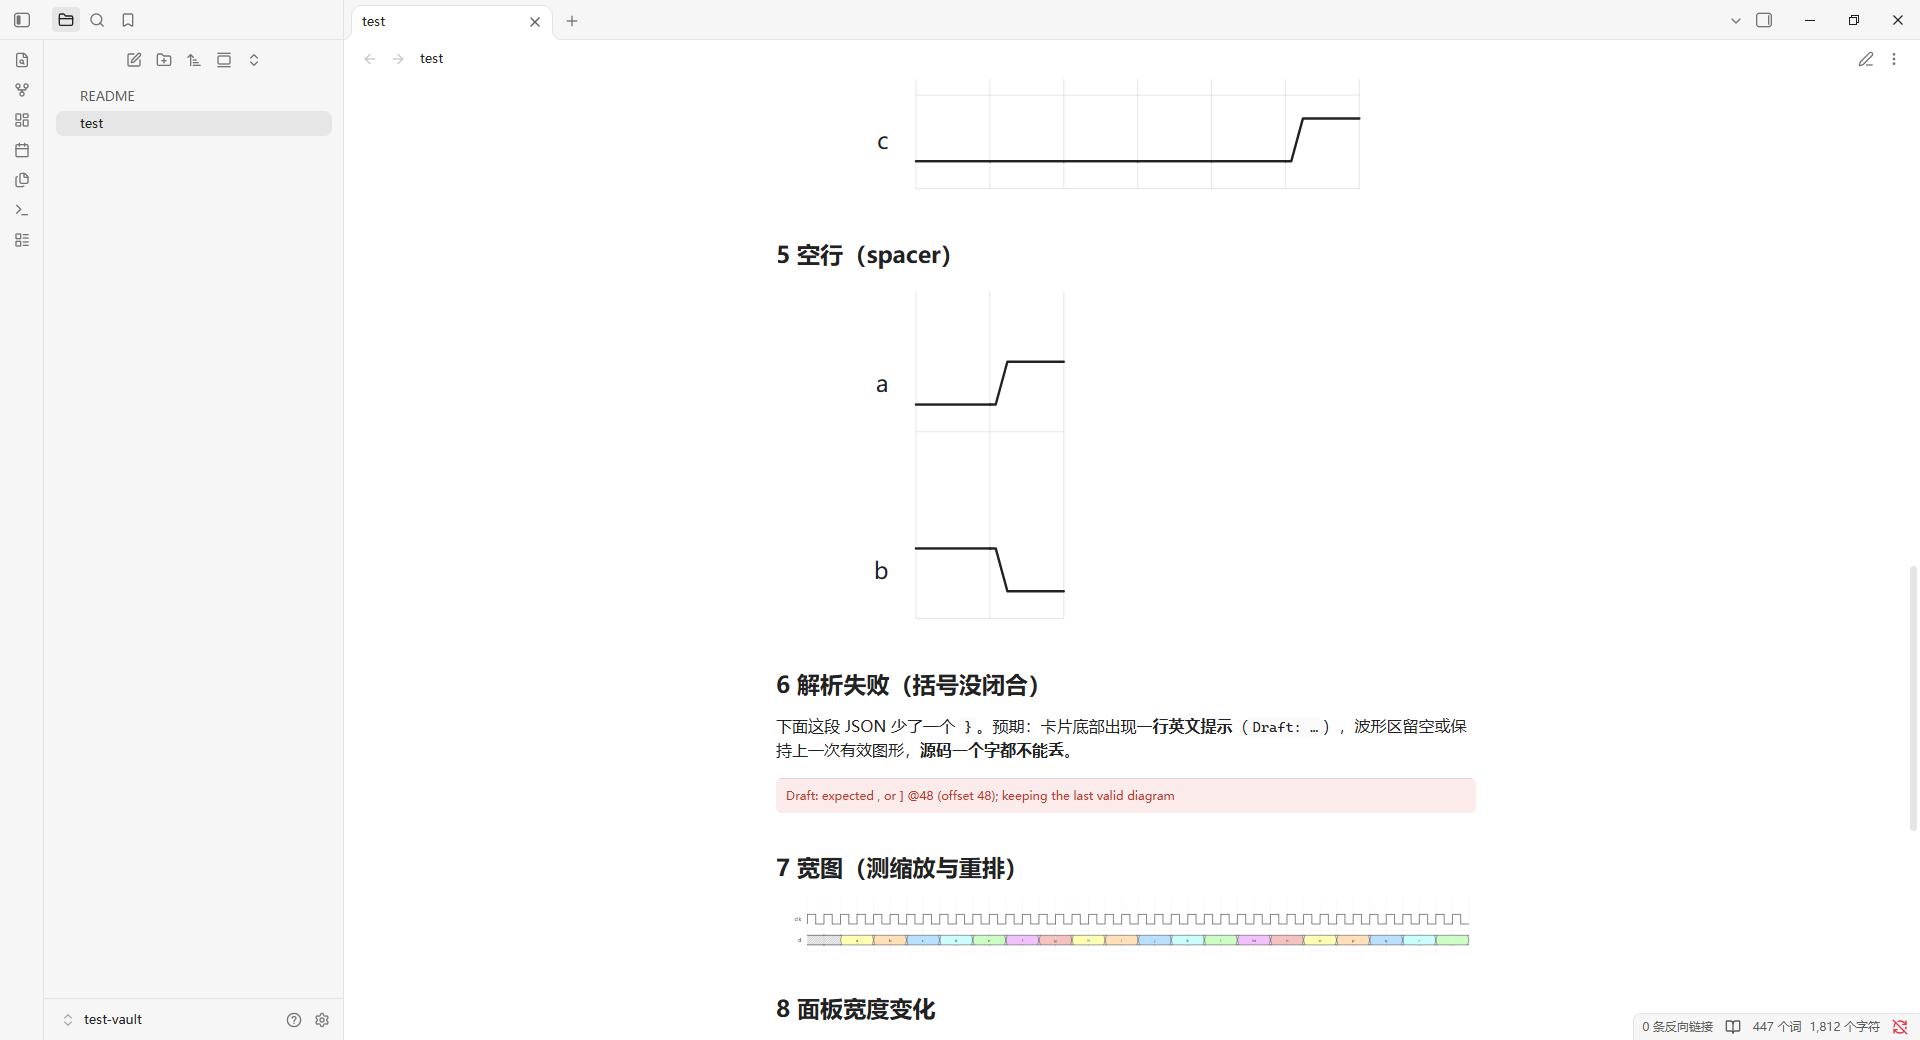
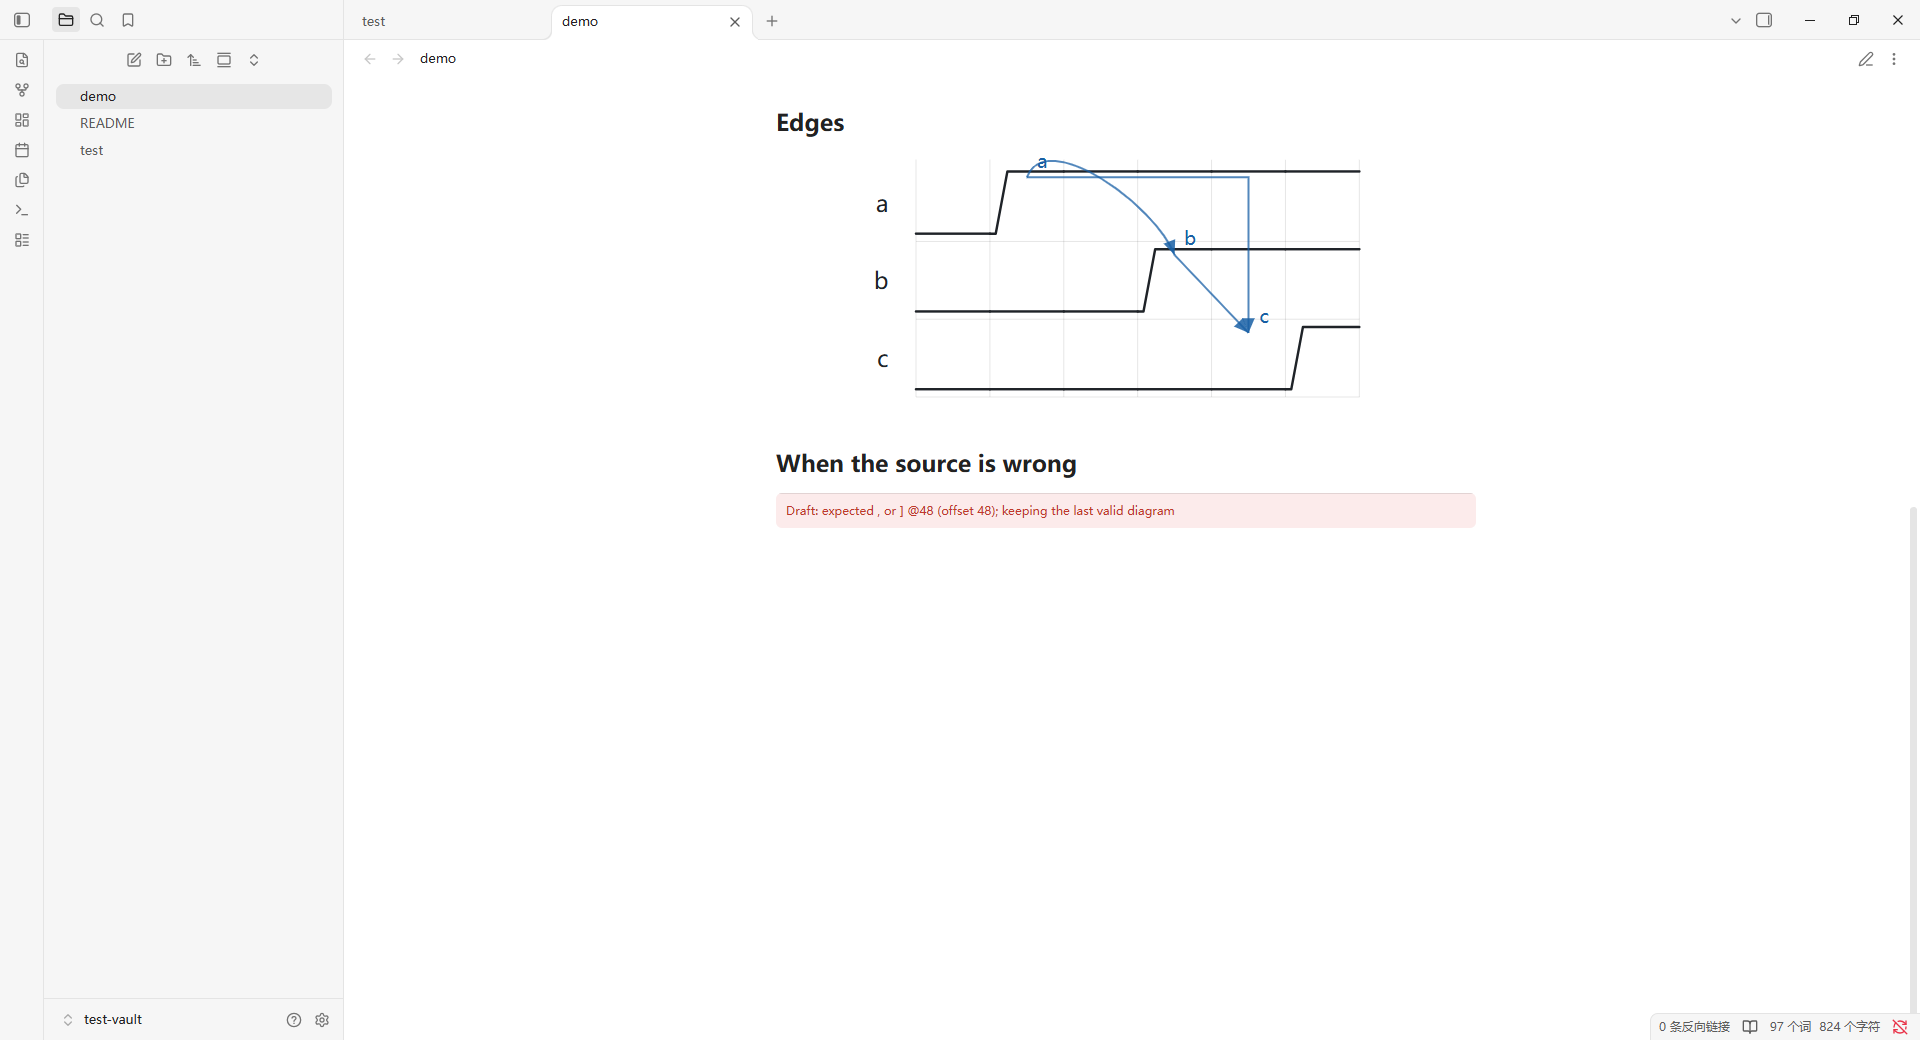
README：截图按新只读视图重拍
只读视图紧凑化后，旧截图（顶部有预留白条、行距偏松）与实物不符。

- 用英文示例笔记重拍，正文不再是中文，与英文 README 一致
- 首图覆盖时钟/总线、分组、弧线三块
- 错误提示图保留，波形区留空的表现更直观
- 删掉与首图内容重复的那张；编辑态图没放 —— 卡片固定 min(72vh,560px)、
  图只占顶部，截出来下方一片空白，作为配图反而像渲染出了问题

diff --git a/README.md b/README.md
@@ -41,9 +41,7 @@ Add a fenced code block with the language `wavejson`:
 ```
 ````
 
-In reading view you get a diagram like this:
-
-![Diagram with groups and edges](assets/screenshot-edges.png)
+In reading view the block renders as a diagram (see the screenshot at the top of this page).
 
 ### Editing
 
